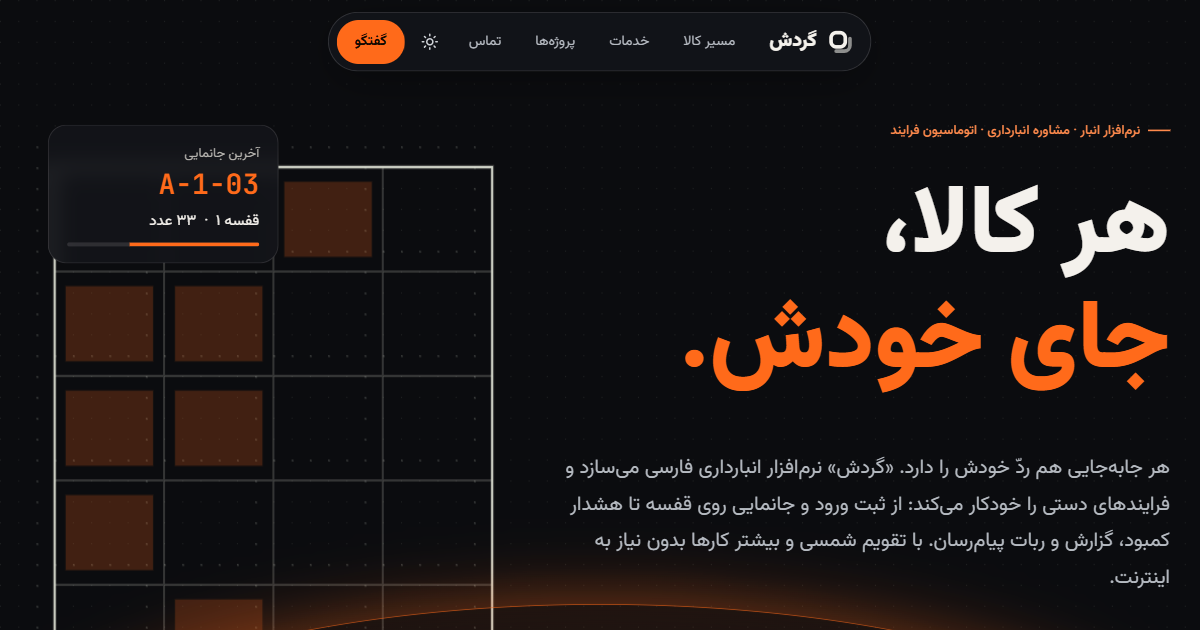
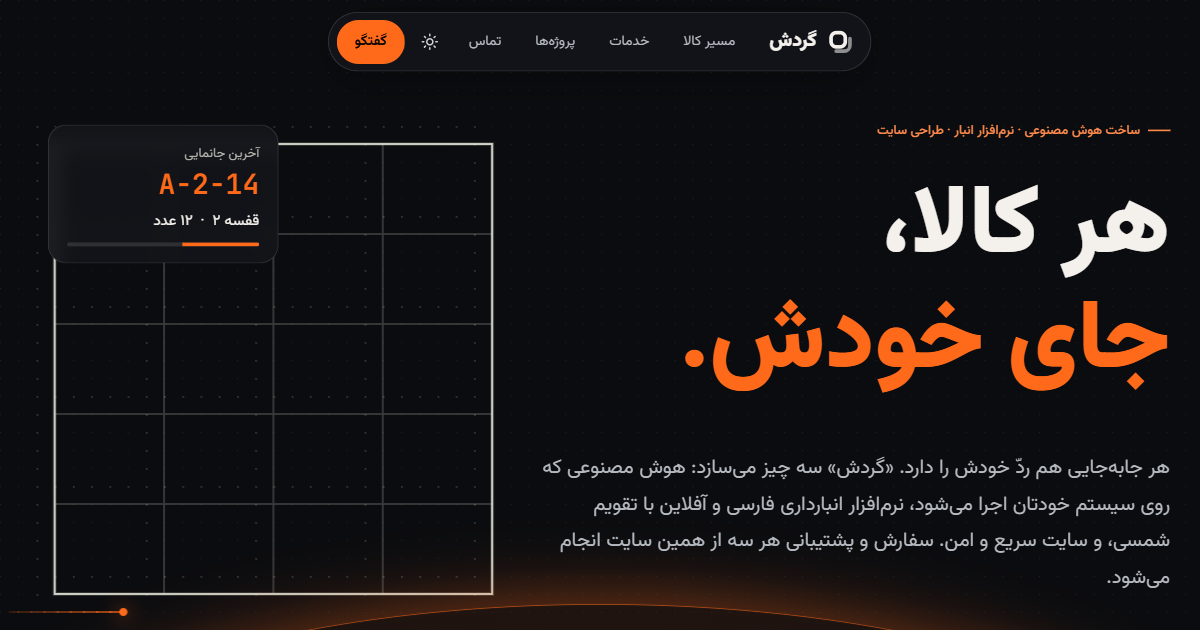
Focus on AI, warehouse software and web design

diff --git a/index.html b/index.html
@@ -5,8 +5,8 @@
 <meta http-equiv="Content-Security-Policy" content="default-src 'none'; script-src 'sha256-plk9/ZwV3cd3Ltb/442ISg7ucDl6jJTgR3Dkc/4lf9U='; style-src 'self' 'unsafe-inline'; font-src 'self'; img-src 'self' data:; connect-src 'none'; base-uri 'none'; form-action 'none'">
 <meta name="referrer" content="strict-origin-when-cross-origin">
 <meta name="viewport" content="width=device-width, initial-scale=1, viewport-fit=cover">
-<title>نرمافزار انبار، مشاوره و اتوماسیون فرایند | گردش</title>
-<meta name="description" content="گردش: نرمافزار انبار فارسی و آفلاین با تقویم شمسی و خروجی اکسل، مشاوره فرایند، اتوماسیون، هوش مصنوعی محلی و API برای کسبوکارهای کوچک.">
+<title>ساخت هوش مصنوعی، نرمافزار انبار و طراحی سایت | گردش</title>
+<meta name="description" content="گردش: ساخت هوش مصنوعی روی سیستم خودتان، نرمافزار انبارداری فارسی و آفلاین با تقویم شمسی، و طراحی سایت سریع و امن؛ با سفارش و پشتیبانی از همین سایت.">
 <meta name="robots" content="index,follow,max-image-preview:large">
 <link rel="canonical" href="https://ar46488-design.github.io/">
 <meta name="theme-color" content="#0B0C0F">
@@ -14,28 +14,21 @@
 <meta property="og:type" content="website">
 <meta property="og:locale" content="fa_IR">
 <meta property="og:site_name" content="گردش">
-<meta property="og:title" content="گردش | نرمافزار انبار، مشاوره و اتوماسیون فرایند">
-<meta property="og:description" content="نرمافزار انبار فارسی، آفلاین و با تقویم شمسی؛ بههمراه مشاوره فرایند و اتوماسیون کارهای تکراری.">
+<meta property="og:title" content="گردش | ساخت هوش مصنوعی، نرمافزار انبار و طراحی سایت">
+<meta property="og:description" content="هوش مصنوعی روی سیستم خودتان، نرمافزار انبار فارسی و آفلاین، و سایت سریع و امن.">
 <meta property="og:url" content="https://ar46488-design.github.io/">
 <meta property="og:image" content="https://ar46488-design.github.io/img/og.png">
 <meta property="og:image:width" content="1200">
 <meta property="og:image:height" content="630">
 <meta name="twitter:card" content="summary_large_image">
-<meta name="twitter:title" content="گردش | نرمافزار انبار و اتوماسیون فرایند">
-<meta name="twitter:description" content="نرمافزار انبار فارسی و آفلاین با تقویم شمسی و خروجی اکسل.">
+<meta name="twitter:title" content="گردش | هوش مصنوعی، نرمافزار انبار و طراحی سایت">
+<meta name="twitter:description" content="هوش مصنوعی روی سیستم خودتان، نرمافزار انبار فارسی و آفلاین، و سایت سریع و امن.">
 <meta name="twitter:image" content="https://ar46488-design.github.io/img/og.png">
 <script type="application/ld+json">
 {"@context":"https://schema.org","@graph":[
-{"@type":"ProfessionalService","@id":"https://ar46488-design.github.io/#org","name":"گردش","alternateName":"Gardesh","url":"https://ar46488-design.github.io/","logo":"https://ar46488-design.github.io/favicon.svg","image":"https://ar46488-design.github.io/img/og.png","description":"نرمافزار انبار فارسی و آفلاین، مشاوره فرایند و اتوماسیون کارهای تکراری","areaServed":{"@type":"Country","name":"ایران"},"knowsLanguage":"fa","founder":{"@type":"Person","name":"علی رمزی"},"sameAs":["https://t.me/gardeshwarehouse","https://t.me/ar46488"],"makesOffer":[{"@type":"Offer","itemOffered":{"@type":"Service","name":"نرمافزار انبار"}},{"@type":"Offer","itemOffered":{"@type":"Service","name":"مشاوره انبارداری و طراحی فرایند"}},{"@type":"Offer","itemOffered":{"@type":"Service","name":"اتوماسیون فرایند و کارهای تکراری"}},{"@type":"Offer","itemOffered":{"@type":"Service","name":"هوش مصنوعی محلی روی سیستم خودتان"}},{"@type":"Offer","itemOffered":{"@type":"Service","name":"API و اتصال سیستمها"}},{"@type":"Offer","itemOffered":{"@type":"Service","name":"راهاندازی سرور داخلی با پایش خودکار"}}]},
+{"@type":"ProfessionalService","@id":"https://ar46488-design.github.io/#org","name":"گردش","alternateName":"Gardesh","url":"https://ar46488-design.github.io/","logo":"https://ar46488-design.github.io/favicon.svg","image":"https://ar46488-design.github.io/img/og.png","description":"ساخت هوش مصنوعی روی سیستم خودتان، نرمافزار انبار فارسی و آفلاین، و طراحی سایت سریع و امن","areaServed":{"@type":"Country","name":"ایران"},"knowsLanguage":"fa","founder":{"@type":"Person","name":"علی رمزی"},"sameAs":["https://t.me/gardeshwarehouse","https://t.me/ar46488"],"makesOffer":[{"@type":"Offer","itemOffered":{"@type":"Service","name":"ساخت هوش مصنوعی"}},{"@type":"Offer","itemOffered":{"@type":"Service","name":"نرمافزار انبار و انبارداری"}},{"@type":"Offer","itemOffered":{"@type":"Service","name":"طراحی سایت"}},{"@type":"Offer","itemOffered":{"@type":"Service","name":"اتوماسیون کارهای تکراری"}},{"@type":"Offer","itemOffered":{"@type":"Service","name":"اتصال سیستمها و API"}},{"@type":"Offer","itemOffered":{"@type":"Service","name":"راهاندازی سرور داخلی"}}]},
 {"@type":"WebSite","@id":"https://ar46488-design.github.io/#site","url":"https://ar46488-design.github.io/","name":"گردش","inLanguage":"fa-IR","publisher":{"@id":"https://ar46488-design.github.io/#org"}},
-{"@type":"FAQPage","inLanguage":"fa-IR","mainEntity":[
-{"@type":"Question","name":"برنامهها به اینترنت نیاز دارند؟","acceptedAnswer":{"@type":"Answer","text":"بیشتر کارها آفلاین انجام میشود. فقط بخشهایی که ذاتاً به شبکه وابستهاند، مثل قیمتهای آنلاین در بازارسنج یا ربات پیامرسان، اینترنت میخواهند."}},
-{"@type":"Question","name":"میشود روی انبار ما سفارشی شود؟","acceptedAnswer":{"@type":"Answer","text":"بله، ولی بعضی برنامهها برای قالب اکسل و چیدمان قفسهٔ شما به سفارشیسازی نیاز دارند. در مرحلهٔ نمونهٔ اولیه روشن میشود چقدر کار لازم است."}},
-{"@type":"Question","name":"قیمت چقدر است؟","acceptedAnswer":{"@type":"Answer","text":"بسته به نیاز و حجم کار است. بعد از گفتگو و دیدن نمونهٔ اولیه، قیمت شفاف و کتبی اعلام میشود."}},
-{"@type":"Question","name":"دادههای من کجا میماند؟","acceptedAnswer":{"@type":"Answer","text":"روی سیستم خودتان. اگر خودتان سرویس ابری یا هوش مصنوعی ابری را روشن کنید، فقط همان بخش از داده به آن سرویس میرود؛ در حالت پیشفرض چیزی بیرون نمیرود."}},
-{"@type":"Question","name":"هوش مصنوعی هم دارید؟","acceptedAnswer":{"@type":"Answer","text":"در برخی برنامهها بهصورت اختیاری و قابلاجرا روی سیستم خودتان. خروجی آن پیشنهاد کمکی است و تصمیم نهایی با شماست."}},
-{"@type":"Question","name":"هوش مصنوعی محلی روی هر رایانهای اجرا میشود؟","acceptedAnswer":{"@type":"Answer","text":"نه همیشه. مدلهای کوچک روی رایانهٔ معمولی اجرا میشوند ولی در فارسی ضعیفترند؛ مدلهای بهتر به حافظه و پردازندهٔ قویتر یا کارت گرافیک نیاز دارند. قبل از هر خریدی، روی نمونهٔ کار خودتان آزمایش میکنیم."}},
-{"@type":"Question","name":"پشتیبانی چطور است؟","acceptedAnswer":{"@type":"Answer","text":"از طریق تلگرام یا ایمیل. برای هر پروژه، کانال پشتیبانی و نحوهٔ رفع اشکال از ابتدا مشخص میشود."}}]}
+{"@type":"FAQPage","inLanguage":"fa-IR","mainEntity":[{"@type": "Question", "name": "برنامهها به اینترنت نیاز دارند؟", "acceptedAnswer": {"@type": "Answer", "text": "بیشتر کارها آفلاین انجام میشود. فقط بخشهایی که ذاتاً به شبکه وابستهاند، مثل قیمتهای آنلاین در بازارسنج یا ربات پیامرسان، اینترنت میخواهند."}}, {"@type": "Question", "name": "میشود روی انبار ما سفارشی شود؟", "acceptedAnswer": {"@type": "Answer", "text": "بله، ولی بعضی برنامهها برای قالب اکسل و چیدمان قفسهٔ شما به سفارشیسازی نیاز دارند. در مرحلهٔ نمونهٔ اولیه روشن میشود چقدر کار لازم است."}}, {"@type": "Question", "name": "قیمت چقدر است؟", "acceptedAnswer": {"@type": "Answer", "text": "بسته به نیاز و حجم کار است. بعد از گفتگو و دیدن نمونهٔ اولیه، قیمت شفاف و کتبی اعلام میشود."}}, {"@type": "Question", "name": "دادههای من کجا میماند؟", "acceptedAnswer": {"@type": "Answer", "text": "روی سیستم خودتان. اگر خودتان سرویس ابری یا هوش مصنوعی ابری را روشن کنید، فقط همان بخش از داده به آن سرویس میرود؛ در حالت پیشفرض چیزی بیرون نمیرود."}}, {"@type": "Question", "name": "هوش مصنوعی هم دارید؟", "acceptedAnswer": {"@type": "Answer", "text": "در برخی برنامهها بهصورت اختیاری و قابلاجرا روی سیستم خودتان. خروجی آن پیشنهاد کمکی است و تصمیم نهایی با شماست."}}, {"@type": "Question", "name": "هوش مصنوعی محلی روی هر رایانهای اجرا میشود؟", "acceptedAnswer": {"@type": "Answer", "text": "نه همیشه. مدلهای کوچک روی رایانهٔ معمولی اجرا میشوند ولی در فارسی ضعیفترند؛ مدلهای بهتر به حافظه و پردازندهٔ قویتر یا کارت گرافیک نیاز دارند. قبل از هر خریدی، روی نمونهٔ کار خودتان آزمایش میکنیم."}}, {"@type": "Question", "name": "سایت را بعد از تحویل هم پشتیبانی میکنید؟", "acceptedAnswer": {"@type": "Answer", "text": "بله. میزبانی، بهروزرسانی محتوا، امنیت و سئوی پایه بعد از تحویل هم ادامه دارد؛ نحوه و مدت آن از اول مکتوب میشود."}}, {"@type": "Question", "name": "پشتیبانی چطور است؟", "acceptedAnswer": {"@type": "Answer", "text": "از طریق تلگرام یا ایمیل. برای هر پروژه، کانال پشتیبانی و نحوهٔ رفع اشکال از ابتدا مشخص میشود."}}]}
 ]}
 </script>
 <link rel="preload" href="fonts/Vazirmatn-wght.woff2" as="font" type="font/woff2" crossorigin>
@@ -169,6 +162,9 @@ header.top.hide{transform:translateY(-150%)}
 .card .n{font-family:var(--mono);font-size:12px;color:var(--muted)}
 .card h3{font-size:24px;font-weight:900;line-height:1.4;margin:48px 0 10px}
 .card p{color:var(--muted);font-size:16px}
+.card.main{border-color:color-mix(in srgb,var(--accent) 45%,var(--line))}
+.card .viz{display:block;width:100%;height:auto;margin-top:22px;color:var(--ink)}
+.card.main h3{margin-top:22px}
 .card ul{list-style:none;padding:0;margin-top:18px;display:grid;gap:8px;font-size:15px}
 .card li{display:flex;gap:10px}
 .card li::before{content:"";flex:none;width:6px;height:6px;border-radius:50%;background:var(--accent);margin-top:12px;box-shadow:0 0 0 3px color-mix(in srgb,var(--accent) 25%,transparent)}
@@ -336,14 +332,14 @@ footer .brand{padding:0;color:var(--ink)}
   <div class="rim" aria-hidden="true"></div>
   <div class="wrap">
     <div class="hero-in">
-      <span class="eyebrow rv">نرمافزار انبار · مشاوره انبارداری · اتوماسیون فرایند</span>
+      <span class="eyebrow rv">ساخت هوش مصنوعی · نرمافزار انبار · طراحی سایت</span>
       <h1 data-split>هر کالا، <em>جای خودش.</em></h1>
-      <p class="lead rv" style="--d:3">هر جابهجایی هم ردّ خودش را دارد. «گردش» نرمافزار انبارداری فارسی میسازد و فرایندهای دستی را خودکار میکند: از ثبت ورود و جانمایی روی قفسه تا هشدار کمبود، گزارش، ربات پیامرسان، API و هوش مصنوعی روی سیستم خودتان. با تقویم شمسی و بیشتر کارها بدون نیاز به اینترنت.</p>
+      <p class="lead rv" style="--d:3">هر جابهجایی هم ردّ خودش را دارد. «گردش» سه چیز میسازد: هوش مصنوعی که روی سیستم خودتان اجرا میشود، نرمافزار انبارداری فارسی و آفلاین با تقویم شمسی، و سایت سریع و امن. سفارش و پشتیبانی هر سه از همین سایت انجام میشود.</p>
       <div class="hero-act rv" style="--d:4">
         <a class="btn pri" href="#contact">درخواست مشاوره <svg viewBox="0 0 24 24" fill="none" stroke="currentColor" stroke-width="2.4" stroke-linecap="round" stroke-linejoin="round"><path d="M19 12H5M11 6l-6 6 6 6"/></svg></a>
         <a class="btn" href="#projects">دیدن کارها</a>
       </div>
-      <div class="hero-meta rv" style="--d:5"><span>آفلاینمحور</span><span>تقویم شمسی و RTL</span><span>خروجی اکسل و PDF</span></div>
+      <div class="hero-meta rv" style="--d:5"><span>هوش مصنوعی روی سیستم خودتان</span><span>انبار آفلاین با تقویم شمسی</span><span>سایت فارسی سریع و امن</span></div>
     </div>
   </div>
   <div class="scrollhint" aria-hidden="true"><i></i>پایین بروید</div>
@@ -351,8 +347,8 @@ footer .brand{padding:0;color:var(--ink)}
 
 <div class="marq t-dark" aria-hidden="true">
   <div class="marq-t">
-    <span>ورود کالا</span><span>جانمایی قفسه</span><span>برچسب و QR</span><span>شمارش موجودی</span><span>هشدار کمبود</span><span>گزارش شمسی</span><span>ربات پیامرسان</span><span>اتوماسیون اکسل</span><span>هوش مصنوعی محلی</span><span>API</span>
-    <span>ورود کالا</span><span>جانمایی قفسه</span><span>برچسب و QR</span><span>شمارش موجودی</span><span>هشدار کمبود</span><span>گزارش شمسی</span><span>ربات پیامرسان</span><span>اتوماسیون اکسل</span><span>هوش مصنوعی محلی</span><span>API</span>
+    <span>ورود کالا</span><span>جانمایی قفسه</span><span>برچسب و QR</span><span>شمارش موجودی</span><span>هشدار کمبود</span><span>گزارش شمسی</span><span>ربات پیامرسان</span><span>اتوماسیون اکسل</span><span>ساخت هوش مصنوعی</span><span>طراحی سایت</span>
+    <span>ورود کالا</span><span>جانمایی قفسه</span><span>برچسب و QR</span><span>شمارش موجودی</span><span>هشدار کمبود</span><span>گزارش شمسی</span><span>ربات پیامرسان</span><span>اتوماسیون اکسل</span><span>ساخت هوش مصنوعی</span><span>طراحی سایت</span>
   </div>
 </div>
 
@@ -404,15 +400,15 @@ footer .brand{padding:0;color:var(--ink)}
 <section id="services" class="curve" data-curve>
   <div class="wrap">
     <span class="eyebrow rv">خدمات</span>
-    <h2 data-split>کارهایی که انجام میدهیم</h2>
-    <p class="lead rv">هر کدام جدا یا با هم؛ از یک گفتگوی کوتاه شروع میشود و به چیزی ختم میشود که بشود روی سیستم خودتان اجرا کرد.</p>
+    <h2 data-split>سه کار اصلی، و کارهای کنارش</h2>
+    <p class="lead rv">ساخت هوش مصنوعی، نرمافزار انبار و طراحی سایت؛ سفارش، پیگیری و پشتیبانی هر سه از همین سایت شروع میشود و تا بعد از تحویل ادامه دارد.</p>
     <div class="svc">
-      <article class="card rv" style="--d:0"><span class="n">۰۱ / نرمافزار</span><h3>نرمافزار انبار، هماندازهٔ انبار شما</h3><p>نصب و راهاندازی برنامههای انبار گردش یا سفارشیسازی آن روی قالب و قفسهبندی خودتان.</p><ul><li>ورودی و خروجی اکسل؛ بدون قفلشدن روی یک سیستم</li><li>برچسب چاپی، لیست خرید، گزارش مصرف</li><li>رابط فارسی، تقویم شمسی، بکاپ خودکار</li></ul></article>
-      <article class="card rv" style="--d:1"><span class="n">۰۲ / مشاوره</span><h3>مشاوره انبارداری و طراحی فرایند</h3><p>مسیر کالا و سند را از ورود تا خروج با هم مرور میکنیم و نقاط گمشدن اطلاعات را پیدا میکنیم.</p><ul><li>نقشهٔ فرایند فعلی و پیشنهادی</li><li>تعیین آستانهها، نقشها و مسئولیتها</li><li>انتخاب ابزار؛ حتی اگر ابزار ما نباشد</li></ul></article>
-      <article class="card rv" style="--d:2"><span class="n">۰۳ / اتوماسیون</span><h3>اتوماسیون فرایند و کارهای تکراری</h3><p>کارهایی که هر روز دستی انجام میشوند را به جریانهای خودکار تبدیل میکنیم.</p><ul><li>ربات پیامرسان برای ثبتنام، اعلان و گزارش</li><li>پردازش و تمیزکاری فایلهای اکسل</li><li>دستیار هوشمند که میتواند روی سیستم خودتان اجرا شود</li></ul></article>
-      <article class="card rv" style="--d:0"><span class="n">۰۴ / هوش مصنوعی محلی</span><h3>هوش مصنوعی روی سیستم خودتان</h3><p>مدل زبانی، تبدیل گفتار به متن و خواندن متن از عکس را روی سرور یا رایانهٔ خودتان راه میاندازیم تا داده از سازمان بیرون نرود.</p><ul><li>پاسخ به پرسشها از روی اسناد و فایلهای داخلی</li><li>رونویسی صوت فارسی و بیرون کشیدن اطلاعات از آن</li><li>انتخاب مدل به اندازهٔ سختافزار؛ کیفیت فارسی مدلهای کوچک را قبل از هر خریدی با هم میسنجیم</li></ul></article>
-      <article class="card rv" style="--d:1"><span class="n">۰۵ / API</span><h3>API و اتصال سیستمها</h3><p>برای نرمافزارهای فعلیتان API میسازیم یا سیستمهای جدا را به هم وصل میکنیم تا هر داده فقط یک بار وارد شود.</p><ul><li>API برای اپ موبایل، وبسایت یا ربات</li><li>اتصال اکسل، پیامرسان و سرویسهای هوش مصنوعی</li><li>مستندات، کلید دسترسی و لاگ برای هر اتصال</li></ul></article>
-      <article class="card rv" style="--d:2"><span class="n">۰۶ / سرور</span><h3>سرور داخلی که خودش را میپاید</h3><p>یک رایانهٔ معمولی یا سرور کوچک را به سرور امن داخلی تبدیل میکنیم که مشکلها را خودش گزارش کند و تا جای ممکن رفع کند.</p><ul><li>بکاپ خودکار با بررسی سالم بودن نسخهها</li><li>فایروال، ورود فقط با کلید و وصلههای امنیتی خودکار</li><li>هشدار در پیامرسان وقتی سرویسی از کار بیفتد</li></ul></article>
+      <article class="card main rv" style="--d:0"><span class="n">۰۱ / هوش مصنوعی</span><svg class="viz" viewBox="0 0 300 92" aria-hidden="true"><g stroke="currentColor" stroke-opacity=".28" stroke-width="1.2"><path d="M40 18L150 14M40 18L150 46M40 18L150 78M40 46L150 14M40 46L150 46M40 46L150 78M40 74L150 14M40 74L150 46M40 74L150 78M150 14L260 30M150 46L260 30M150 78L260 30M150 14L260 62M150 46L260 62M150 78L260 62"/></g><path d="M40 46L150 46L260 30" stroke="#FF6A1A" stroke-width="2.2" fill="none"/><g fill="currentColor" fill-opacity=".22"><circle cx="40" cy="18" r="7"/><circle cx="40" cy="74" r="7"/><circle cx="150" cy="14" r="7"/><circle cx="150" cy="78" r="7"/><circle cx="260" cy="62" r="7"/></g><g fill="#FF6A1A"><circle cx="40" cy="46" r="7"/><circle cx="150" cy="46" r="7"/><circle cx="260" cy="30" r="8"/></g></svg><h3>ساخت هوش مصنوعی برای کار شما</h3><p>دستیار و ابزار هوشمند میسازیم که روی سرور یا رایانهٔ خودتان اجرا شود و داده از سازمان بیرون نرود.</p><ul><li>پاسخ به پرسشها از روی اسناد و فایلهای داخلی</li><li>تبدیل صوت فارسی به متن و خواندن متن از عکس</li><li>ربات پیامرسان با هوش مصنوعی و API برای اتصال به سیستمهای دیگر</li><li>کیفیت فارسی مدل را قبل از هر خرید سختافزاری روی نمونهٔ کار خودتان میسنجیم</li></ul></article>
+      <article class="card main rv" style="--d:1"><span class="n">۰۲ / نرمافزار انبار</span><svg class="viz" viewBox="0 0 300 92" aria-hidden="true"><g fill="none" stroke="currentColor" stroke-opacity=".3" stroke-width="1.2"><rect x="18" y="8" width="38" height="20" rx="4"/><rect x="64" y="8" width="38" height="20" rx="4"/><rect x="110" y="8" width="38" height="20" rx="4"/><rect x="156" y="8" width="38" height="20" rx="4"/><rect x="202" y="8" width="38" height="20" rx="4"/><rect x="248" y="8" width="38" height="20" rx="4"/><rect x="18" y="36" width="38" height="20" rx="4"/><rect x="64" y="36" width="38" height="20" rx="4"/><rect x="110" y="36" width="38" height="20" rx="4"/><rect x="156" y="36" width="38" height="20" rx="4"/><rect x="202" y="36" width="38" height="20" rx="4"/><rect x="248" y="36" width="38" height="20" rx="4"/><rect x="18" y="64" width="38" height="20" rx="4"/><rect x="64" y="64" width="38" height="20" rx="4"/><rect x="110" y="64" width="38" height="20" rx="4"/><rect x="156" y="64" width="38" height="20" rx="4"/><rect x="202" y="64" width="38" height="20" rx="4"/><rect x="248" y="64" width="38" height="20" rx="4"/></g><g fill="#FF6A1A" fill-opacity=".25"><rect x="64" y="8" width="38" height="20" rx="4"/><rect x="202" y="36" width="38" height="20" rx="4"/><rect x="18" y="64" width="38" height="20" rx="4"/></g><rect x="156" y="36" width="38" height="20" rx="4" fill="#FF6A1A"/><path d="M175 56V88" stroke="#FF6A1A" stroke-width="1.6" stroke-dasharray="3 4"/></svg><h3>انبارداری با نرمافزار، هماندازهٔ انبار شما</h3><p>نرمافزار انبار فارسی و آفلاین با تقویم شمسی؛ از یک انبار قطعات تا سامانهٔ چندانبارهٔ شبکهای.</p><ul><li>جانمایی کالا روی قفسه و کشو، برچسب و QR</li><li>ورود، خروج، امانت، شمارش و هشدار کمبود</li><li>ورودی و خروجی اکسل، گزارش و لیست خرید</li><li>مشاوره انبارداری و طراحی فرایند پیش از نصب</li></ul></article>
+      <article class="card main rv" style="--d:2"><span class="n">۰۳ / طراحی سایت</span><svg class="viz" viewBox="0 0 300 92" aria-hidden="true"><rect x="20" y="4" width="260" height="84" rx="9" fill="none" stroke="currentColor" stroke-opacity=".35" stroke-width="1.2"/><path d="M20 20H280" stroke="currentColor" stroke-opacity=".3"/><g fill="currentColor" fill-opacity=".3"><circle cx="32" cy="12" r="2.6"/><circle cx="42" cy="12" r="2.6"/><circle cx="52" cy="12" r="2.6"/></g><rect x="150" y="30" width="116" height="10" rx="3" fill="currentColor" fill-opacity=".3"/><rect x="186" y="46" width="80" height="6" rx="3" fill="currentColor" fill-opacity=".18"/><rect x="206" y="62" width="60" height="14" rx="7" fill="#FF6A1A"/><rect x="34" y="30" width="100" height="46" rx="6" fill="#FF6A1A" fill-opacity=".14" stroke="#FF6A1A" stroke-opacity=".5"/><path d="M50 66L70 48L86 60L104 42L120 52" fill="none" stroke="#FF6A1A" stroke-width="2"/></svg><h3>طراحی سایت سریع و امن</h3><p>سایت فارسی و راستچین که روی موبایل درست دیده شود، سریع باز شود و در Google پیدا شود؛ مثل همین سایت.</p><ul><li>طراحی اختصاصی، بدون قالب آماده</li><li>سئوی پایه، دادههای ساختاریافته و نقشهٔ سایت</li><li>میزبانی، HTTPS و هدرهای امنیتی</li><li>پشتیبانی و بهروزرسانی بعد از تحویل</li></ul></article>
+      <article class="card rv" style="--d:0"><span class="n">۰۴ / اتوماسیون</span><h3>اتوماسیون کارهای تکراری</h3><p>کارهایی که هر روز دستی انجام میشوند را به جریانهای خودکار تبدیل میکنیم.</p><ul><li>ربات پیامرسان برای اعلان و گزارش</li><li>پردازش و تمیزکاری فایلهای اکسل</li></ul></article>
+      <article class="card rv" style="--d:1"><span class="n">۰۵ / API</span><h3>اتصال سیستمها و API</h3><p>سیستمهای جدا را به هم وصل میکنیم تا هر داده فقط یک بار وارد شود.</p><ul><li>API برای اپ موبایل، سایت یا ربات</li><li>مستندات، کلید دسترسی و لاگ برای هر اتصال</li></ul></article>
+      <article class="card rv" style="--d:2"><span class="n">۰۶ / سرور</span><h3>سرور داخلی که خودش را میپاید</h3><p>یک رایانهٔ معمولی را به سرور امن داخلی تبدیل میکنیم که مشکلها را خودش گزارش و رفع کند.</p><ul><li>بکاپ خودکار با بررسی سالم بودن نسخهها</li><li>ورود فقط با کلید و هشدار در پیامرسان</li></ul></article>
     </div>
   </div>
 </section>
@@ -427,6 +423,7 @@ footer .brand{padding:0;color:var(--ink)}
         <div class="legend rv"><span><span class="tag ok">پایدار</span> قابلاستفاده</span><span><span class="tag mid">پایلوت / نمونهٔ اولیه</span> هنوز در مرحلهٔ آزمون</span><span>تصویرها نمونهٔ شماتیکاند، نه صفحهٔ دقیق برنامه.</span></div>
       </div></div>
       <div class="track" id="track">
+        <article class="proj"><div class="top"><span class="id">W-01</span><span class="tag ok">منتشرشده</span></div><h3>سایت گردش</h3><div class="en">This website</div><div class="mock" aria-hidden="true"><div class="bar"><i></i><i></i><i></i></div><div class="bd"><div class="m-line"><b>حجم صفحه</b><em>۷۵ کیلوبایت</em></div><div class="m-line"><b>فونت</b><span>روی خود سایت</span></div><div class="m-line"><b>سئو</b><span>دادههای ساختاریافته و نقشهٔ سایت</span></div><div class="m-line"><b>امنیت</b><span>HTTPS و CSP</span></div></div><span class="cap">نمونهٔ شماتیک</span></div><p>همین سایت؛ فارسی و راستچین، بدون قالب آماده و بدون کتابخانهٔ سنگین.</p><ul><li>یک صفحه با انیمیشن سبک و حالت تیره و روشن</li><li>سئوی پایه و پیشنمایش برای اشتراک در شبکهها</li><li>بدون وابستگی به سرویسهای بیرونی</li></ul><div class="foot"><span>وب</span><span>موبایل</span><span>رایگان روی GitHub Pages</span></div></article>
         <article class="proj"><div class="top"><span class="id">P-01</span><span class="tag ok">پایدار · نسخهٔ ۲٫۵</span></div><h3>قفسهیار</h3><div class="en">ShelfYar</div><div class="mock" aria-hidden="true"><div class="bar"><i></i><i></i><i></i></div><div class="bd"><span class="m-pill">قفسهٔ A · کشوها</span><div class="m-grid" id="mg"></div></div><span class="cap">نمونهٔ شماتیک · داده فرضی</span></div><p>مدیریت انبار قطعات در کشو و قفسه، با اکسل بهعنوان پایگاه داده.</p><ul><li>نقشهٔ کشوها و جستوجوی سریع</li><li>آستانهٔ کمبود و لیست خرید با خروجی اکسل</li><li>برچسب کشو بهصورت PDF آمادهٔ چاپ</li></ul><div class="foot"><span>ویندوز</span><span>آفلاین</span><span>پرتابل</span></div></article>
         <article class="proj"><div class="top"><span class="id">P-02</span><span class="tag ok">پایدار · نسخهٔ ۱٫۳</span></div><h3>بازارسنج</h3><div class="en">BazarSanj</div><div class="mock" aria-hidden="true"><div class="bar"><i></i><i></i><i></i></div><div class="bd"><svg viewBox="0 0 300 78" width="100%" height="78" preserveAspectRatio="none"><path d="M0 60 L40 52 L80 56 L120 40 L160 44" fill="none" stroke="#7C93B0" stroke-width="2"/><path d="M160 44 L200 30 L240 22 L300 10" fill="none" stroke="#FF6A1A" stroke-width="2.4" stroke-dasharray="5 4"/><path d="M160 44 L200 30 L240 22 L300 10 V78 H160Z" fill="#FF6A1A" opacity=".12"/></svg><div style="display:flex;justify-content:space-between;align-items:center"><span>افق ۳۰ روز</span><span class="m-line" style="border:0;padding:0"><em>الان بخر</em></span></div></div><span class="cap">نمونهٔ شماتیک · داده فرضی</span></div><p>تحلیل بازار قطعات الکترونیک برای تصمیم خرید.</p><ul><li>پیشبینی کمبودها با دلیل و درجهٔ اطمینان</li><li>پیشنهاد «الان بخر / صبر کن»</li><li>بررسی عملکرد پیشبینیهای گذشته</li></ul><div class="foot"><span>ویندوز</span><span>نیمهآنلاین</span><span>فقط میخواند، در اکسل نمینویسد</span></div></article>
         <article class="proj"><div class="top"><span class="id">P-03</span><span class="tag ok">پایدار</span></div><h3>پهپادبان</h3><div class="en">PahpadBan</div><div class="mock" aria-hidden="true"><div class="bar"><i></i><i></i><i></i></div><div class="bd"><div class="m-row h"><span>ردیف</span><span>قطعه</span><span>نوع</span><span>تعداد</span></div><div class="m-row"><span>۱</span><span>قطعهٔ نمونه الف</span><em>ورود</em><span>۱۲</span></div><div class="m-row"><span>۲</span><span>قطعهٔ نمونه ب</span><u>خروج</u><span>۳</span></div><div class="m-row"><span>۳</span><span>قطعهٔ نمونه ج</span><span>جابهجایی</span><span>۵</span></div></div><span class="cap">نمونهٔ شماتیک · داده فرضی</span></div><p>موجودی و گردش قطعات پهپاد میان انبارها.</p><ul><li>ورود، خروج، جابهجایی و تغییر وضعیت</li><li>تاریخچهٔ تراکنشها با تاریخ شمسی و نام شخص</li><li>گزارش موجودی و لیست کمبود در اکسل</li></ul><div class="foot"><span>ویندوز</span><span>آفلاین</span><span>سبک و ساده</span></div></article>
@@ -444,7 +441,7 @@ footer .brand{padding:0;color:var(--ink)}
 <!-- ═════════ WHY ═════════ -->
 <section id="why" class="curve" data-curve>
   <div class="wrap">
-    <h2 class="eyebrow rv">چرا نرمافزار انبار گردش؟</h2>
+    <h2 class="eyebrow rv">چرا گردش؟</h2>
     <p class="stmt" id="stmt">انبار خوب یعنی هر چیز جای مشخصی دارد، هر جابهجایی ردی از خودش میگذارد، و هیچکس برای پیدا کردن یک قطعه نیم ساعت وقت نمیگذارد.</p>
     <div class="wy">
       <div class="rv" style="--d:0"><b>۰۱</b><h3>آفلاینمحور</h3><p>کار انبار با قطع اینترنت متوقف نمیشود؛ بیشتر برنامهها کاملاً روی سیستم خودتان اجرا میشوند.</p></div>
@@ -474,6 +471,7 @@ footer .brand{padding:0;color:var(--ink)}
       <details><summary>دادههای من کجا میماند؟</summary><p>روی سیستم خودتان. اگر خودتان سرویس ابری یا هوش مصنوعی ابری را روشن کنید، فقط همان بخش از داده به آن سرویس میرود؛ در حالت پیشفرض چیزی بیرون نمیرود.</p></details>
       <details><summary>هوش مصنوعی هم دارید؟</summary><p>در برخی برنامهها بهصورت اختیاری و قابلاجرا روی سیستم خودتان. خروجی آن پیشنهاد کمکی است و تصمیم نهایی با شماست.</p></details>
       <details><summary>هوش مصنوعی محلی روی هر رایانهای اجرا میشود؟</summary><p>نه همیشه. مدلهای کوچک روی رایانهٔ معمولی اجرا میشوند ولی در فارسی ضعیفترند؛ مدلهای بهتر به حافظه و پردازندهٔ قویتر یا کارت گرافیک نیاز دارند. قبل از هر خریدی، روی نمونهٔ کار خودتان آزمایش میکنیم.</p></details>
+      <details><summary>سایت را بعد از تحویل هم پشتیبانی میکنید؟</summary><p>بله. میزبانی، بهروزرسانی محتوا، امنیت و سئوی پایه بعد از تحویل هم ادامه دارد؛ نحوه و مدت آن از اول مکتوب میشود.</p></details>
       <details><summary>پشتیبانی چطور است؟</summary><p>از طریق تلگرام یا ایمیل. برای هر پروژه، کانال پشتیبانی و نحوهٔ رفع اشکال از ابتدا مشخص میشود.</p></details>
     </div>
 
@@ -496,7 +494,7 @@ footer .brand{padding:0;color:var(--ink)}
       </div>
       <form id="f" class="rv" style="--d:2" autocomplete="off">
         <label>نام<input id="fn" required placeholder="مثلاً مریم احمدی"></label>
-        <label>موضوع<select id="ft"><option>نرمافزار انبار</option><option>مشاوره فرایند</option><option>اتوماسیون و ربات</option><option>هوش مصنوعی محلی</option><option>API و اتصال سیستمها</option><option>سرور داخلی</option><option>چیز دیگر</option></select></label>
+        <label>موضوع<select id="ft"><option>ساخت هوش مصنوعی</option><option>نرمافزار انبار</option><option>طراحی سایت</option><option>مشاوره انبارداری</option><option>اتوماسیون و API</option><option>سرور داخلی</option><option>چیز دیگر</option></select></label>
         <label>توضیح کوتاه<textarea id="fm" placeholder="انبار شما چیست؟ چند قلم کالا؟ الان با چه ابزاری کار میکنید؟"></textarea></label>
         <div class="fa"><button class="btn pri" type="submit">ارسال در تلگرام</button><button class="btn" type="button" id="cp">کپی متن</button></div>
         <span class="note">این فرم چیزی ذخیره یا ارسال نمیکند؛ فقط متن پیام را برای باز کردن تلگرام آماده میکند.</span>
